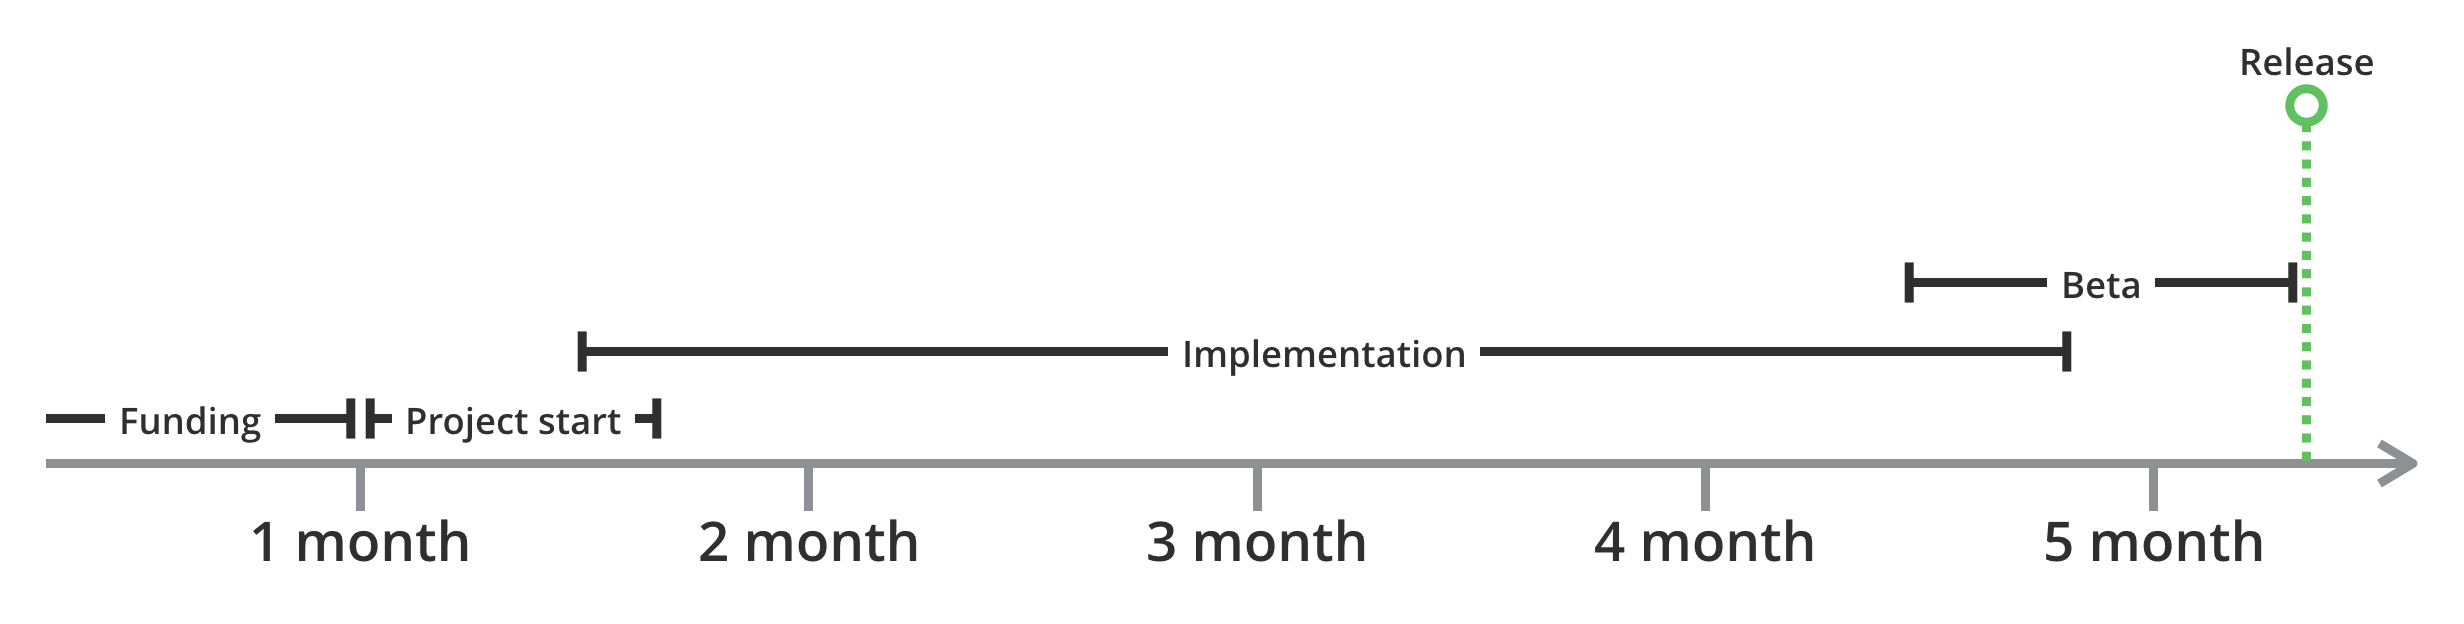
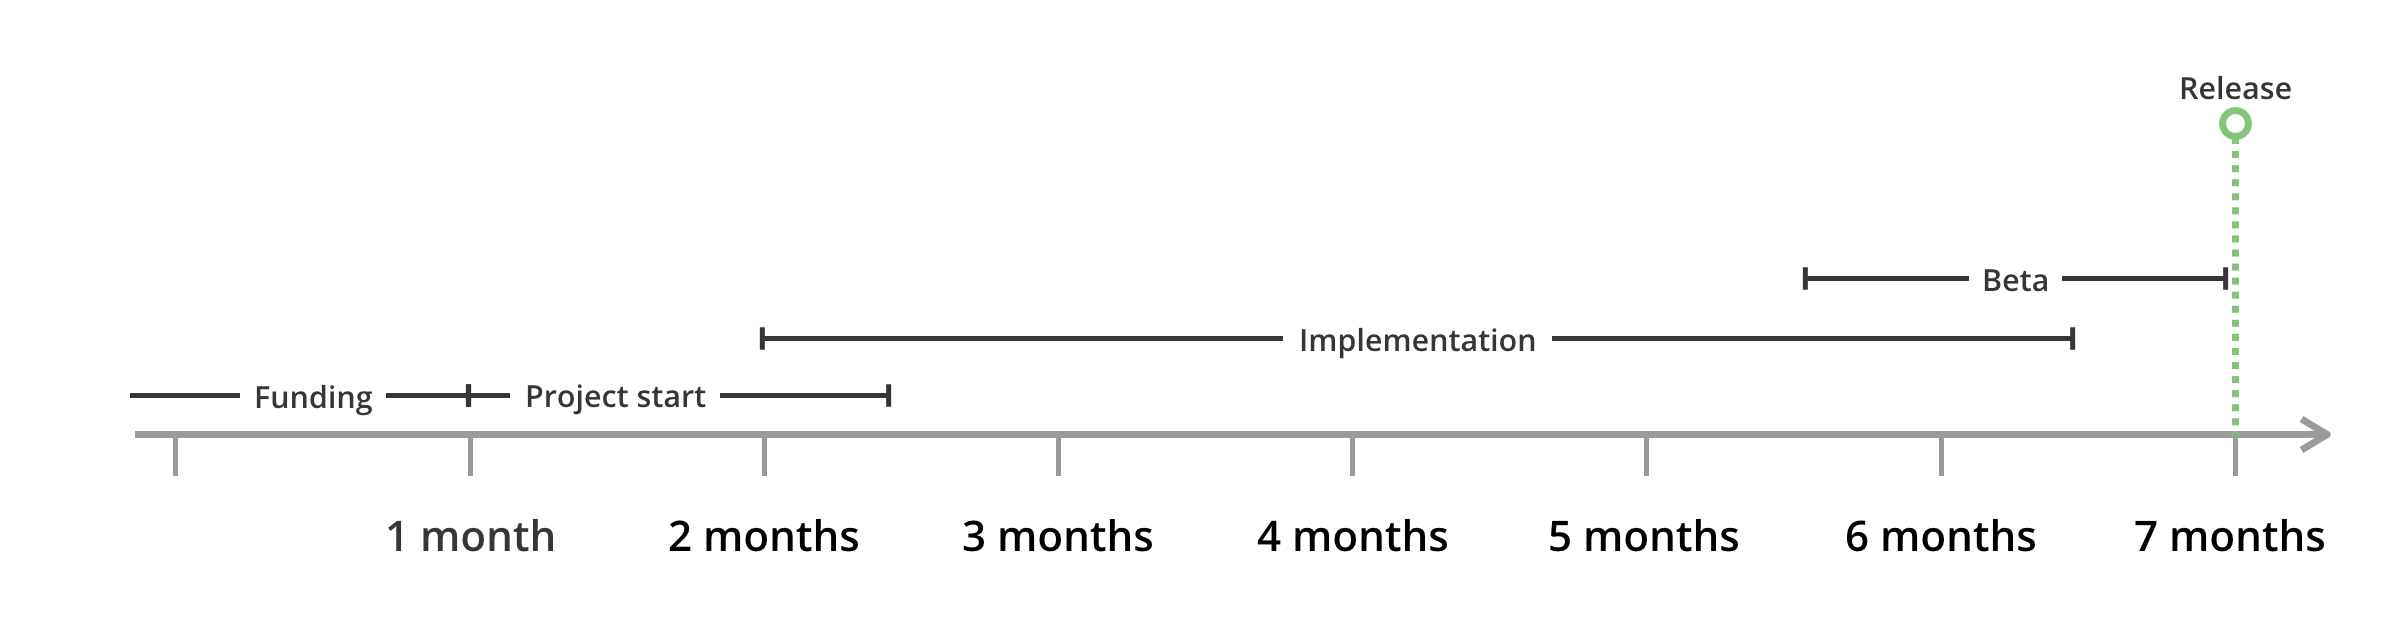
Updated OpenWebStart-roadmap plus some minor corrections

diff --git a/webstart.md b/webstart.md
@@ -6,18 +6,17 @@ headerText:
 permalink: /webstart/
 header:
   image: webstart-2
-  text: Run <span class="my-karakun">Web Start</span> based application after the release of <span class="my-karakun">Java 11</span>
+  text: Run <span class="my-karakun">Web Start</span> based applications after the release of <span class="my-karakun">Java 11</span>
 nav:
   bottom: false
 ---
 ## Java Web Start will die!
-Java Web Start (JWS) was deprecated in Java 9 and starting with Java 11 Oracle will remove JWS from their JDK distributions.
-All this happened in September 2018.
-From this time on, it will be impossible to use JWS-based applications on clients, that have the latest version of Java installed.
-Since the public support of Java 8 ends in the 4 quarter of 2019 companies won't get any updates and security fixes for Web Start anymore.
+Java Web Start (JWS) was deprecated in Java 9 and starting with Java 11 Oracle removed JWS from their JDK distributions.
+From this time on, it became impossible to use JWS-based applications on clients, that had the latest version of Java installed.
+Since public support of Java 8 ended in Q4/2019, companies do not get any updates and security fixes for Java Web Start anymore.
 
-Based on this we at Karakun decided to create <span class="text-highlight">Open<span>WebStart</span></span> as an open source reimplementation of the Web Start technology.
-The replacement should provide all general features of Web Start and will reuse the JNLP standard so that customers can continue to use applications based on Web Start and JNLP without any changes.
+For this reason we decided to create <span class="text-highlight">Open<span>WebStart</span></span>, an open source reimplementation of the Java Web Start technology.
+The replacement will provide the most commonly used features of Java Web Start and the JNLP standard so that customers can continue to use applications based on Java Web Start and JNLP without any changes.
 
 ![roadmap]({{ "/assets/images/webstart/divider-2.png" | absolute_url }})
 
@@ -29,7 +28,7 @@ For more information about the removal of Java Web Start you can take a look at 
 
 ### Technical details
 <span class="text-highlight">Open<span>WebStart</span></span> will be based on the JNLP-specification defined in JSR-56 and will implement the most commonly used features of Java Web Start.
-It will be able to handle any typical JWS-based application and will support all future versions of Java starting from Java 11. Next to Java 11 we will support Java 8 directly with the first release of <span class="text-highlight">Open<span>WebStart</span></span>.
+It will be able to handle any typical JWS-based application and we plan to support all future versions of Java starting with Java 11. Next to Java 11 we will support Java 8 directly with the first release of <span class="text-highlight">Open<span>WebStart</span></span>.
 The following topics describe several aspects of the tool in more detail.
 
 
@@ -99,13 +98,19 @@ If you want to use JDK with commercial support that should not be reachable in p
 All this configurations can be easily done for a customer that bought commercial support at Karakun. The free to use <span class="text-highlight">Open<span>WebStart</span></span> builds are all configured in a default way.
 
 ### Roadmap
-A first base funding is secured and we start development mid of March.
-Beta tests will be available in Q2 2019. The following diagram shows
-the roadmap:
+We have been able to secure a good part of the required funding. With our sponsors we started to discuss the list of features that we are going to implement.
+Our goal is to have beta tests and a release candidate ready in Q3/2019.
+The following diagram shows the roadmap:
 
 ![roadmap]({{ "/assets/images/webstart/roadmap-karakun.png" | absolute_url }})
 
-#### Interested?
-If you want to learn more or if you would like to discuss your specific needs, please contact us at [OpenWebStart@karakun.com](mailto:openwebstart@karakun.com) or [subscribe to our newsletter](/subscribe/).
+#### Interested in becoming a sponsor?
+We are still looking for sponsors.
+As a sponsor you can influence the list of features that we are going to implement.
+Plus we will run regular tests with your applications to guarantee that your application will work with OpenWebStart.
+If that sounds interesting, please contact us at [OpenWebStart@karakun.com](mailto:openwebstart@karakun.com).
+
+#### How can I stay informed?
+If you want to learn more and stay up-to-date, please [subscribe to our newsletter](/subscribe/).
 
 ![roadmap]({{ "/assets/images/webstart/rocket.png" | absolute_url }})
